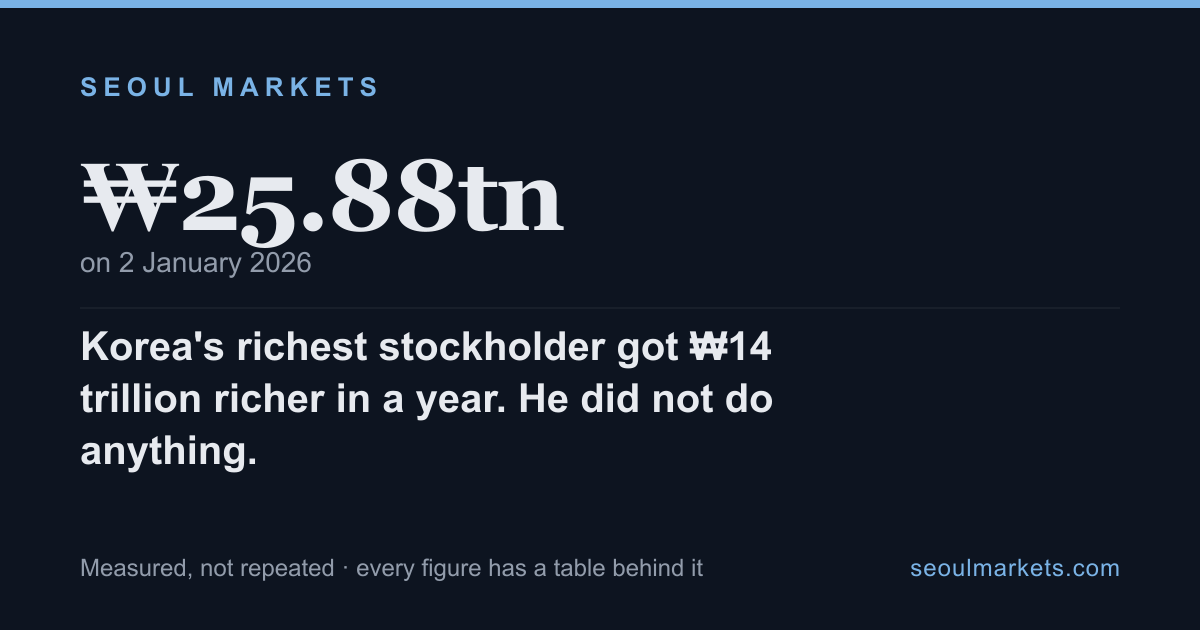
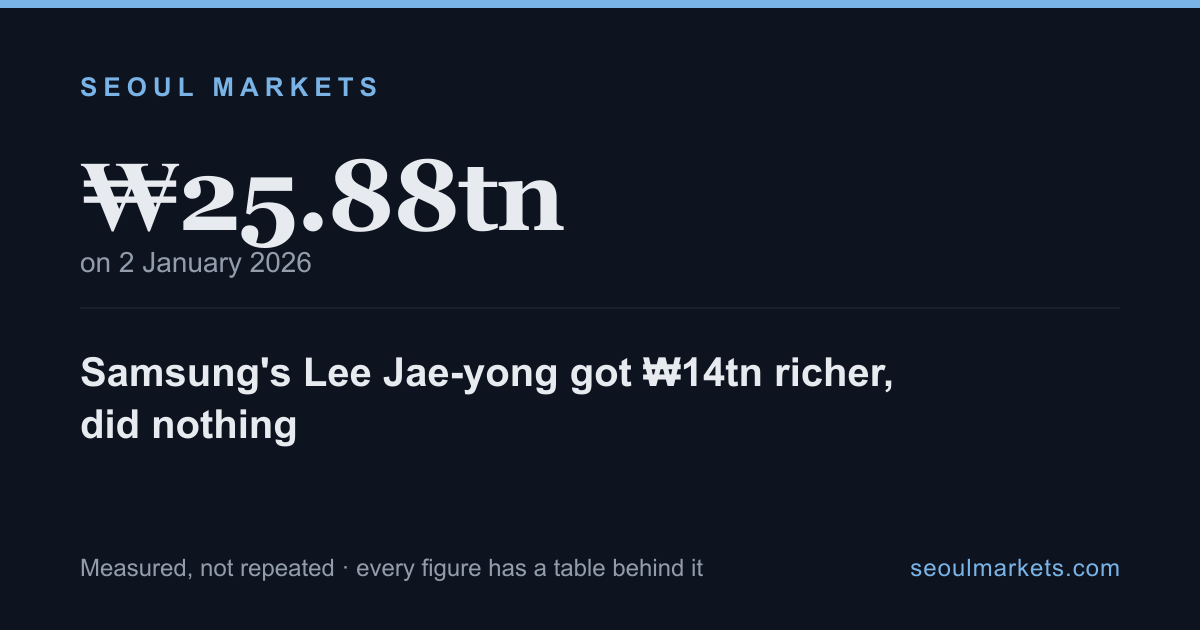
제목에 실명 반영: Samsung's Lee Jae-yong (사장님 지시 — 실명타겟팅), og카드·llms.txt 동기화

Changed region(s): [[0.0617, 0.5127, 0.74, 0.754]]

diff --git a/content/articles/korea-stock-wealth-ranking-paper-fortune.md b/content/articles/korea-stock-wealth-ranking-paper-fortune.md
@@ -1,5 +1,5 @@
 ---
-title: "Korea's richest stockholder got ₩14 trillion richer in a year. He did not do anything."
+title: "Samsung's Lee Jae-yong got ₩14tn richer, did nothing"
 dek: "Samsung's Lee Jae-yong topped Korea's stock-wealth ranking at ₩25.88tn on 2 January 2026 — up 117% in a year. The gain was the market, not the man. So what does a ranking that doubles on a rally actually measure?"
 category: equities
 pubDate: 2026-08-31
